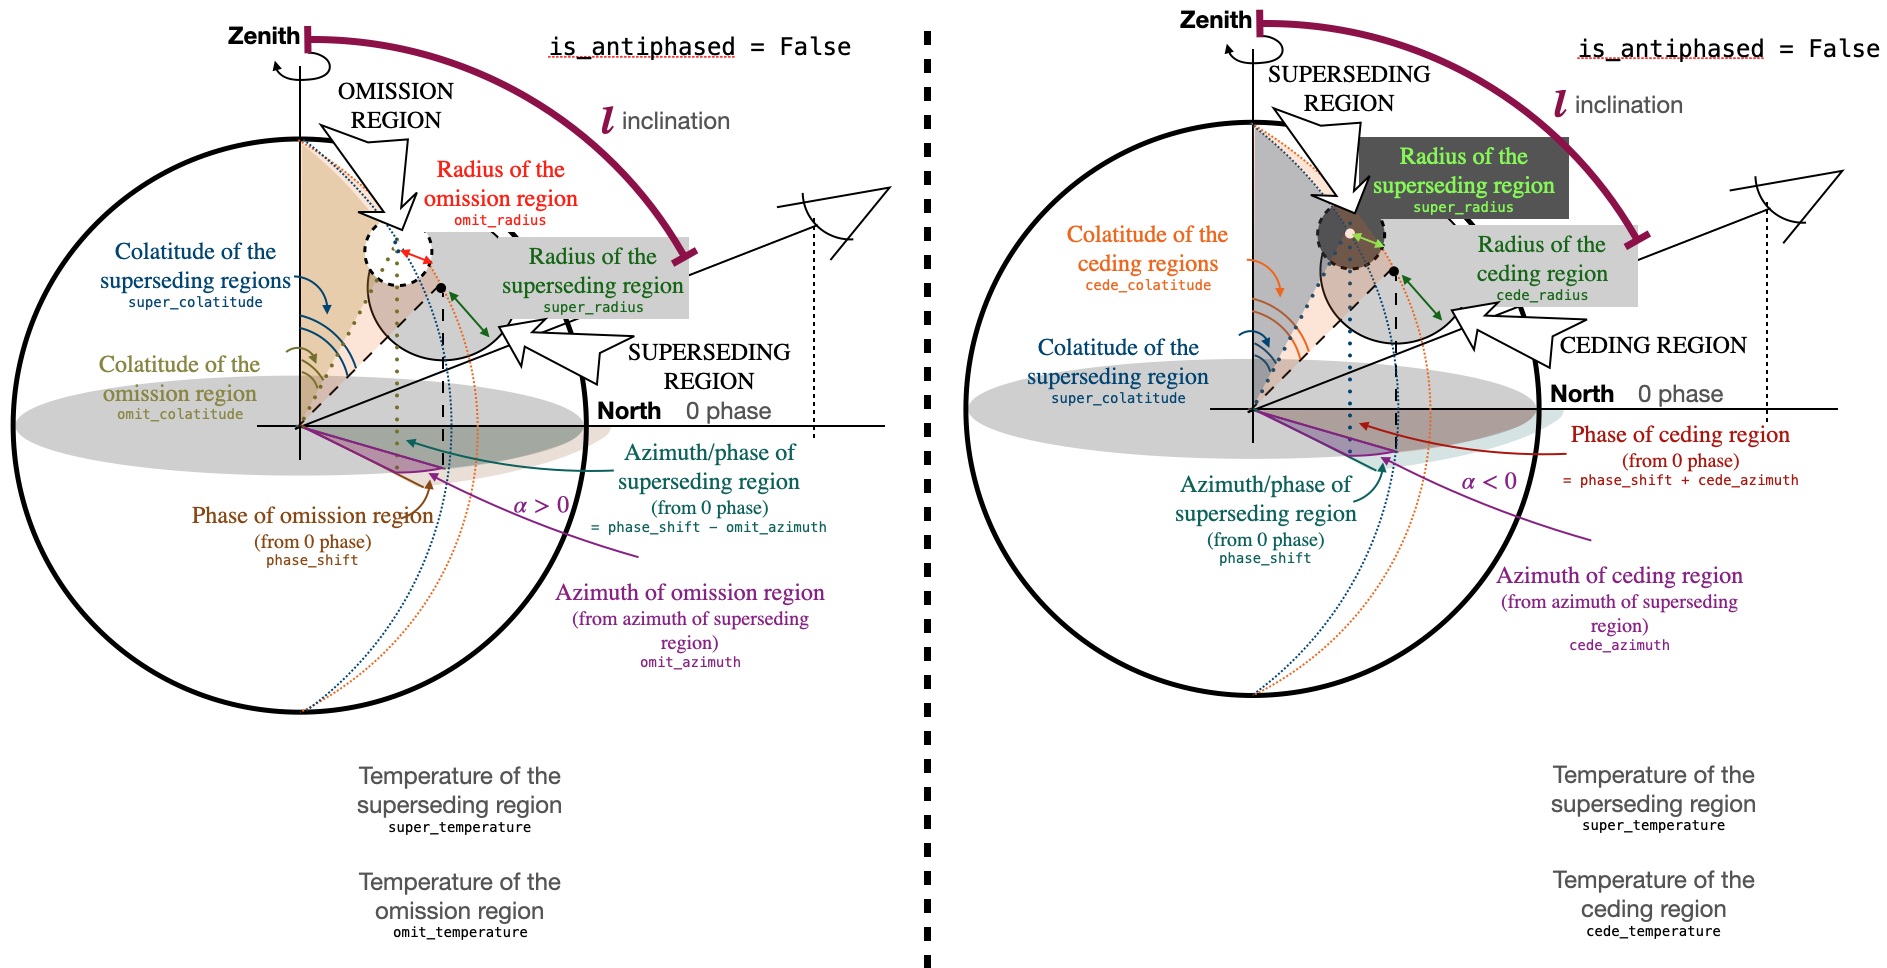
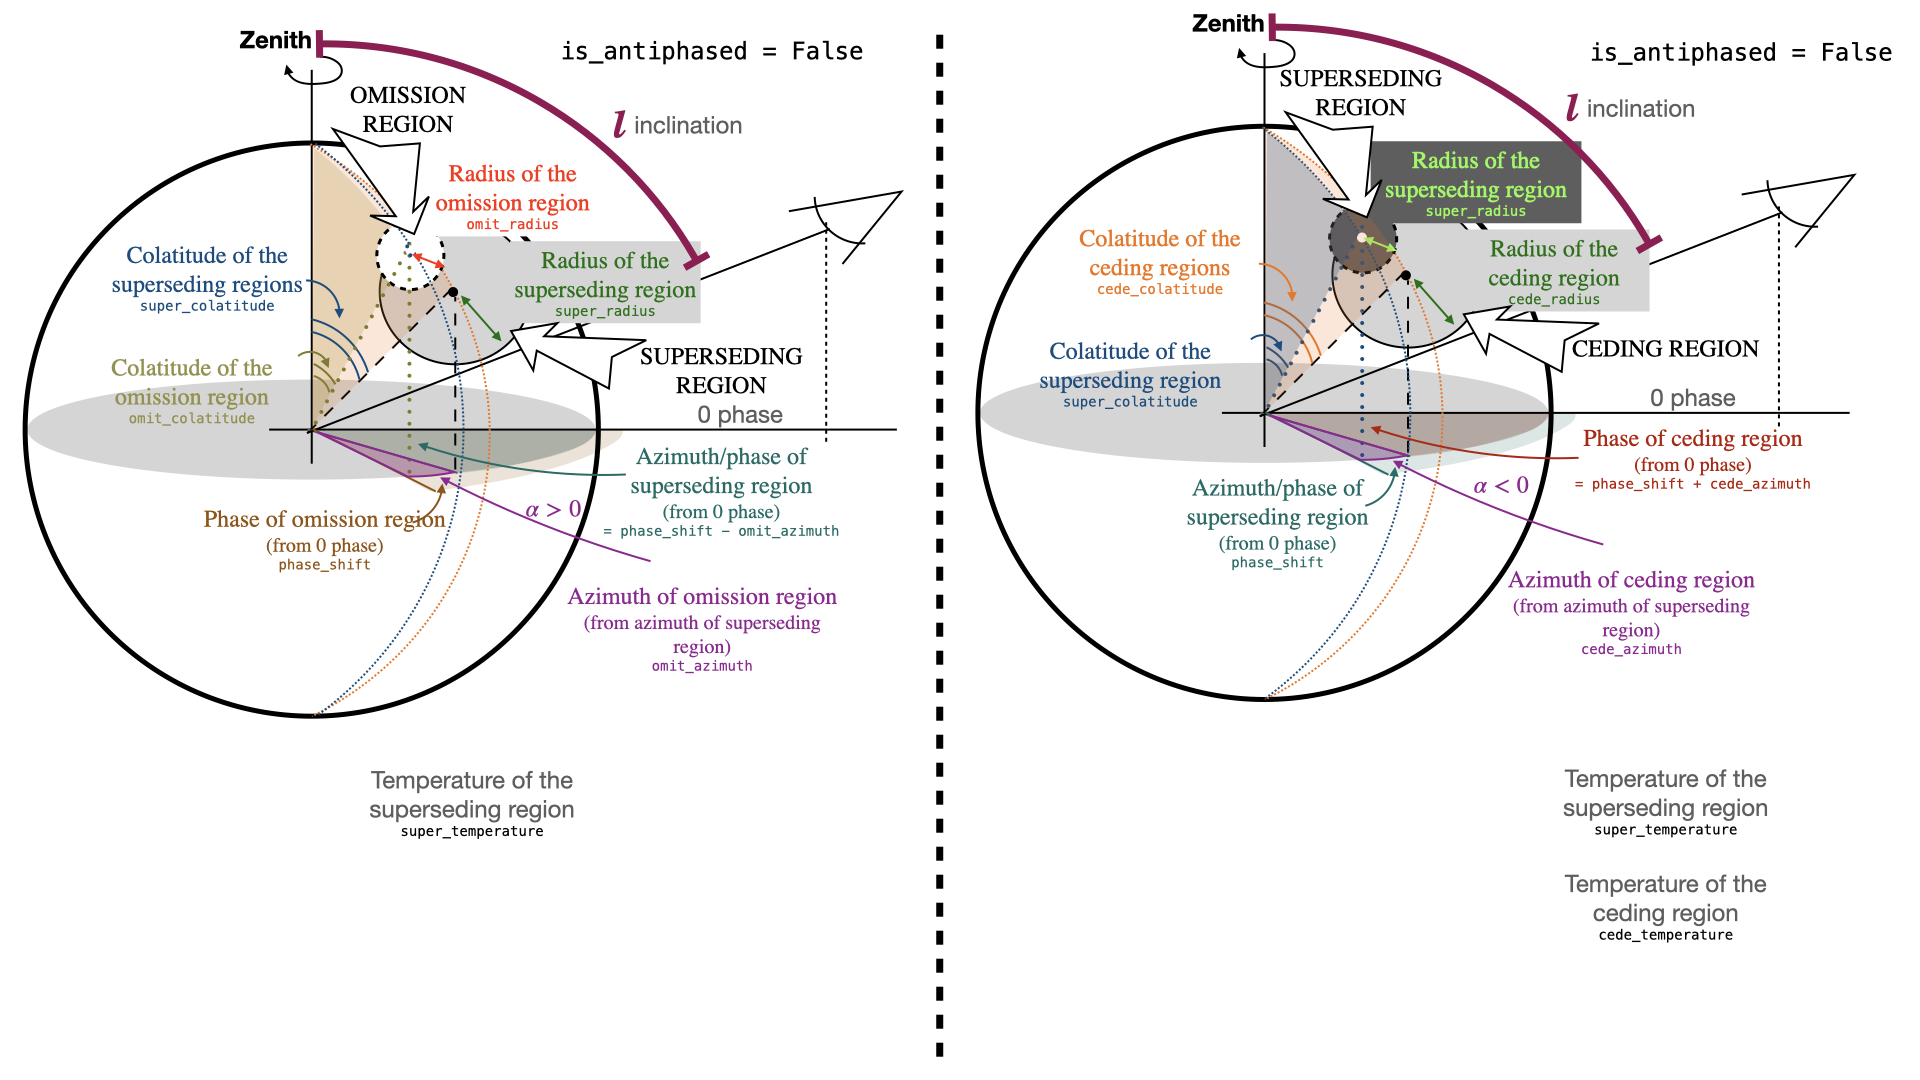
correcting images and math pi in the documentation page hotregion, adding name to Parameter.py in error statement and fixing typo in PostProcessing/__init__.py

diff --git a/xpsi/Parameter.py b/xpsi/Parameter.py
@@ -386,7 +386,7 @@ class Parameter(object):
             if not self.strict_bounds[0] <= float(value) <= self.strict_bounds[1]:
                 # handle this exception externally if sampling software can
                 # make proposals outside of strict bounds
-                raise StrictBoundsError('Value is not within the strict bounds.')
+                raise StrictBoundsError('Value of parameter %s is not within the strict bounds.'%self.name)
         except TypeError:
             if self._fixed:
                 raise ValueError('Value must be a float.')

diff --git a/xpsi/PostProcessing/__init__.py b/xpsi/PostProcessing/__init__.py
@@ -84,7 +84,7 @@ else:
         frac_part = abs(x) - int_part
         precision = 1 if frac_part == 0.0 else -int(math.log10(frac_part)) + 1
         if precision >= 5:
-            if magitude + 5 >= max_digits:
+            if magnitude + 5 >= max_digits:
                 return max_digits - magnitude
             else:
                 return 5

diff --git a/setup.py b/setup.py
@@ -204,7 +204,7 @@ if __name__ == '__main__':
 
     setup(
         name = 'xpsi',
-        version = '0.7.4',
+        version = '0.7.5',
         author = 'Thomas Edward Riley',
         author_email = 't.e.riley@uva.nl; t.riley.phd@gmail.com',
         url = 'https://github.com/ThomasEdwardRiley/xpsi',

diff --git a/docs/source/conf.py b/docs/source/conf.py
@@ -80,7 +80,7 @@ author = u'Thomas E. Riley'
 # The short X.Y version.
 version = u'0.7'
 # The full version, including alpha/beta/rc tags.
-release = u'0.7.4'
+release = u'0.7.5'
 
 # The language for content autogenerated by Sphinx. Refer to documentation
 # for a list of supported languages.

diff --git a/xpsi/__init__.py b/xpsi/__init__.py
@@ -4,7 +4,7 @@ A open-source package for neutron star astrostatistics.
 
 """
 from __future__ import print_function
-__version__ = "0.7.4"
+__version__ = "0.7.5"
 __author__ = "Thomas E. Riley"
 
 try:

diff --git a/docs/source/hotregion.rst b/docs/source/hotregion.rst
@@ -16,7 +16,7 @@ Representation of the ``HotRegion`` class instantiation options ``omit`` and ``c
 .. figure:: images/HotRegion_parameters.png
    :width: 600
 
-Representation of a ``HotRegion`` instance configuration, when ``omit`` or ``cede`` are set to ``True``. A description of these parameters is also presented below. If ``is_antiphased = True``, the parameter ``phase_shift`` is added to :math:\pi radians. For example, if ``phase_shift = 0``, the omission or the superseding region (respectively on the left and right side of the image) is in anti-phase with the observer meridian (i.e., its azimuth is :math:\pi).
+Representation of a ``HotRegion`` instance configuration, when ``omit`` or ``cede`` are set to ``True``. A description of these parameters is also presented below. If ``is_antiphased = True``, the parameter ``phase_shift`` is added to :math:`\pi` radians. For example, if ``phase_shift = 0``, the omission or the superseding region (respectively on the left and right side of the image) is in anti-phase with the observer meridian (i.e., its azimuth is :math:`\pi`).
 
 .. autoclass:: xpsi.HotRegion.HotRegion
     :members: _HotRegion__construct_cellMesh, _HotRegion__compute_rays,

diff --git a/CHANGELOG.rst b/CHANGELOG.rst
@@ -31,6 +31,27 @@ Removed
 
 Attribution
 ^^^^^^^^^^^
+
+[v0.7.5] - 2021-02-5
+~~~~~~~~~~~~~~~~~~~~~
+
+Fixed
+^^^^^
+* Typo in _precision function in xpsi/PostProcessing/__init__.py
+* math typo in the docs/source/hotregion.rst file
+
+Changed
+^^^^^
+* few things in the images appearing in the HotRegion page
+* printing error statement including name of the parameter in xpsi/Parameter.py
+
+Attribution
+^^^^^^^^^^^
+* Serena Vinciguerra
+
+
+
+
 [v0.7.4] - 2021-01-26
 ~~~~~~~~~~~~~~~~~~~~~
 
